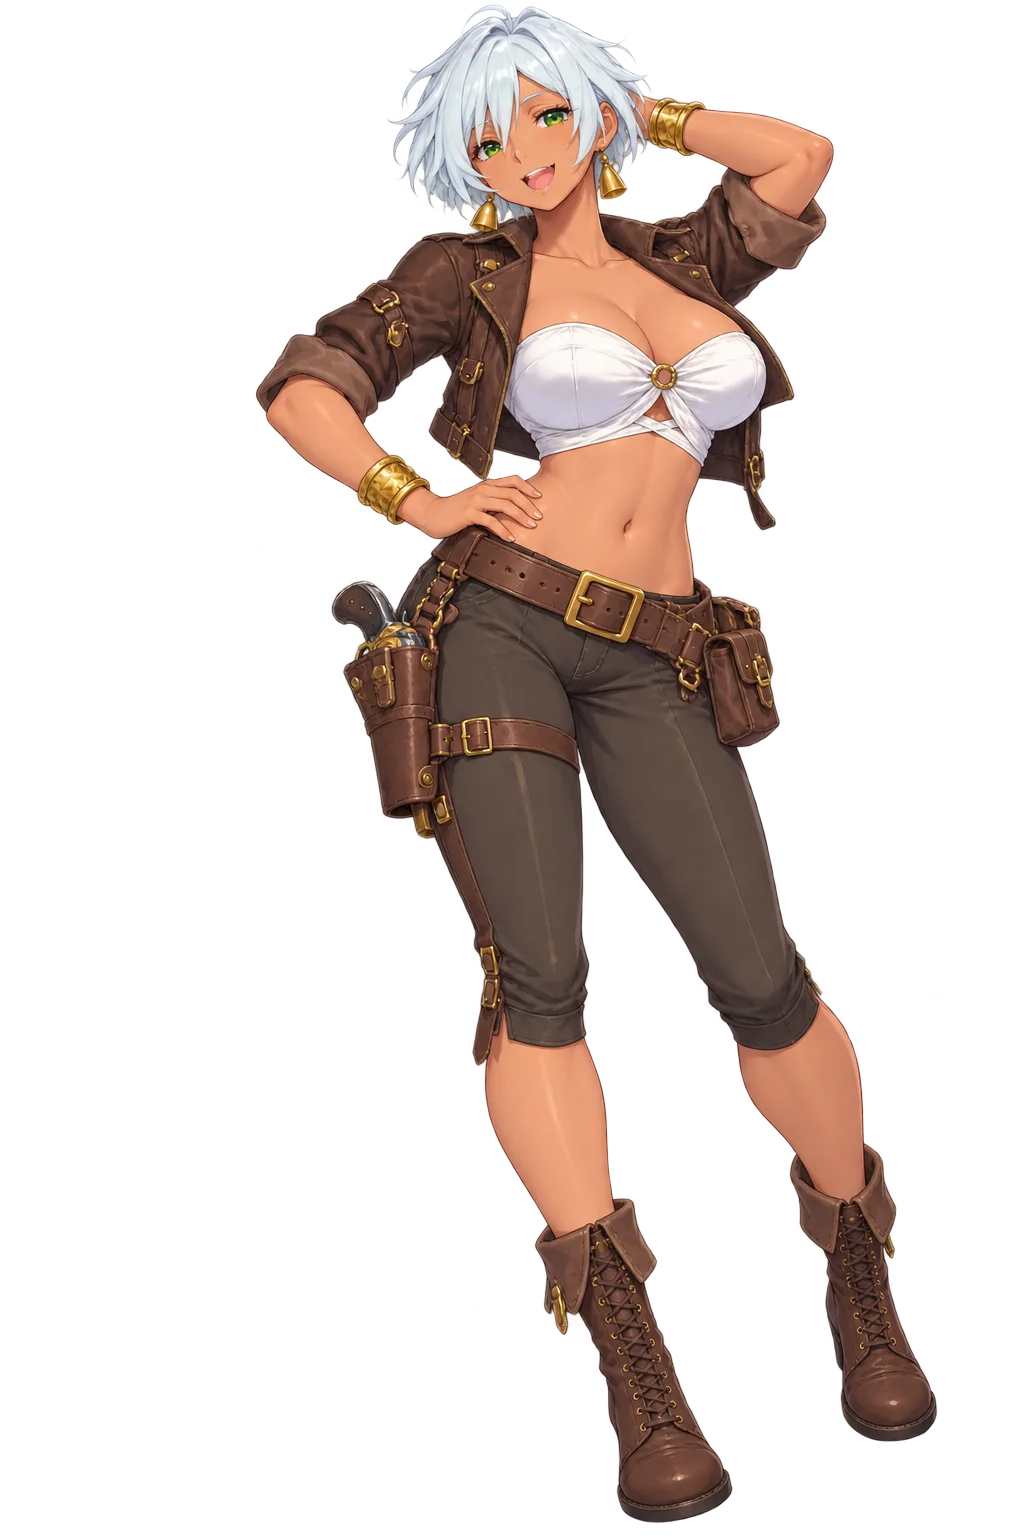
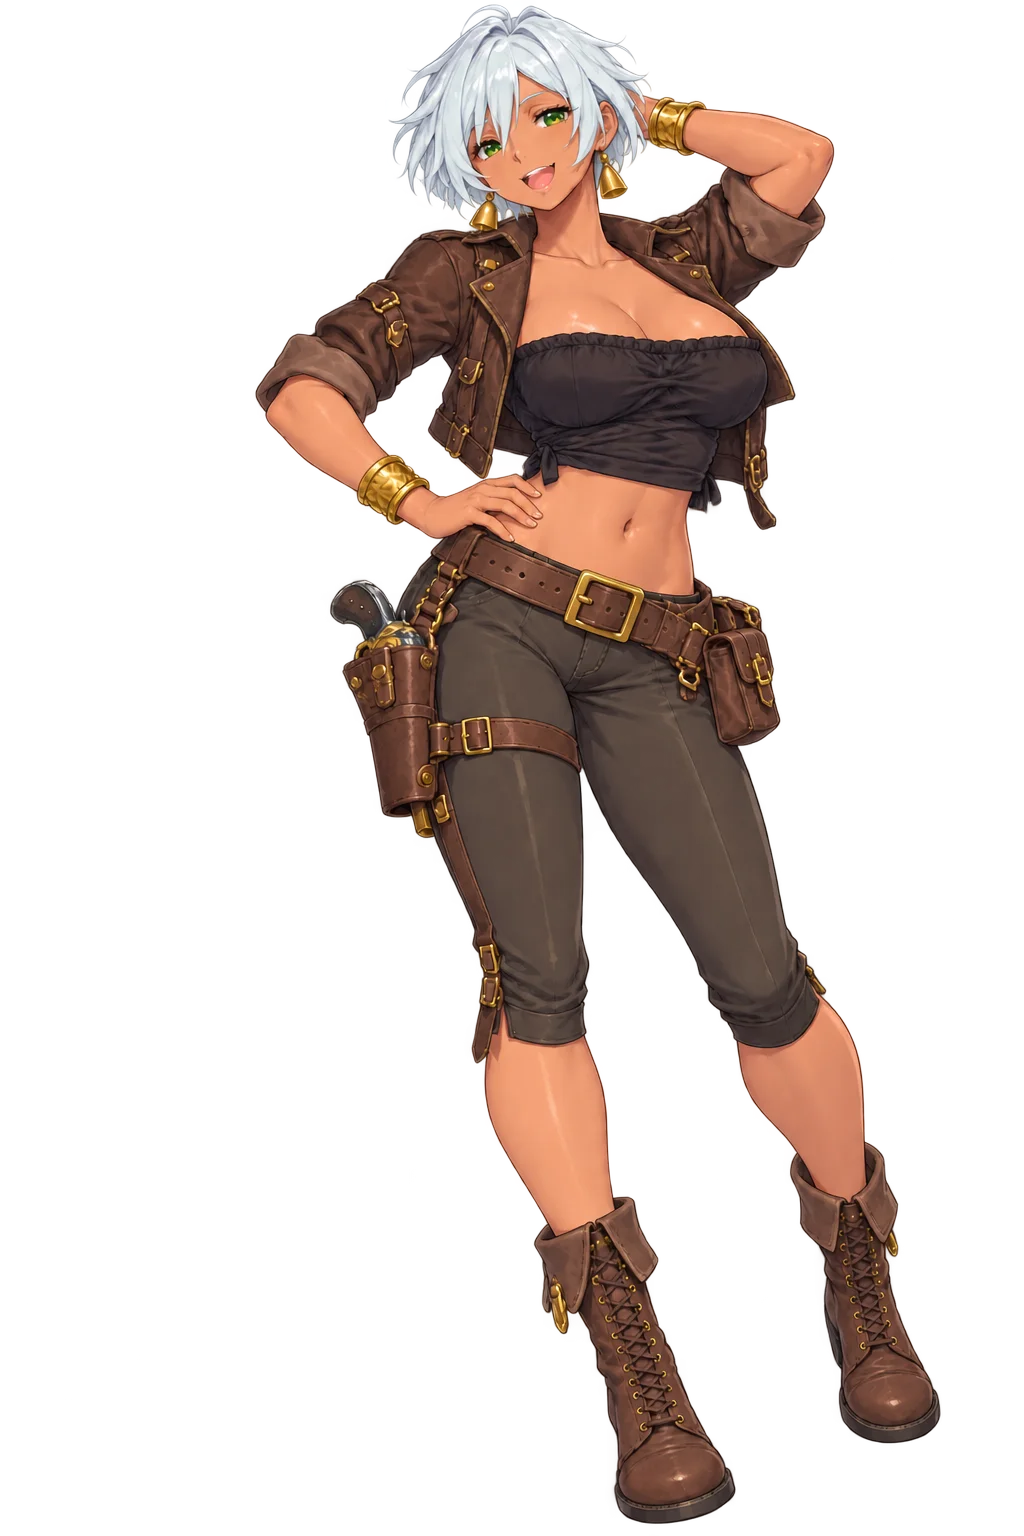
art(索拉娜): 冒險者裝改深色一字領上衣（同名覆蓋，尚無引用）

diff --git a/HANDOFF.md b/HANDOFF.md
@@ -118,7 +118,7 @@
 >    程式端：`script/speakers.js` 這 24 條 src **`?v=` 全跳**、取景值全換（`resources/si/_anya_restyle_worklist.md`「第二批取景值」）。⚠ `sleep` 是坐姿、人比舊版大，`measure_si` 提醒縱向只佔 69% ⇒ top/bot 不能當身高，`cm`／`standCm` 要看渲染調。
 >    ⇒ 第 29＋30 項接完之後，遊戲裡安雅就全部是新畫風了。
 > 31. **（09-28，Mac）索拉娜冒險者裝基底 `resources/si/sorana_ad_si_front.webp`**（Ray：「索拉娜的冒險者裝束立繪，一字領抹胸與短夾克，貼身七分褲」；命名同第 28 項 `<角色>_ad_si_<表情>`）
->    新檔、真 alpha。`measure_si.py`：`top:4 bot:1522 fx:0.533`。用在哪一段、要不要進 `speakers.js` 等 Ray（同 `renna_ad_si_front`）。
+>    新檔、真 alpha（09-28 同日改版：白抹胸→深色一字領，Ray：「配色不好看」；還沒有任何引用，所以不必跳 `?v=`）。`measure_si.py`：`top:4 bot:1523 fx:0.534`。用在哪一段、要不要進 `speakers.js` 等 Ray（同 `renna_ad_si_front`）。
 > 美術現況與換機器交接：**`resources/_HANDOFF_ART_20260925.md`**（§七＝米夏九張；§八＝廢城兩次退稿到定風格；§九＝聖索菲亞 9 張＋廢城 55 張全交、產線的坑；**§十三＝09-27 收工換機器：薇拉馮德 73 張、惡棍 6 張、索拉娜三張回版、還開著的事、三個不明刪除**；§十四＝GPT 拒畫的 alpha 交 PC 走本機；**§十五＝09-28 收工：蘿媞六張、cry 手指、市政廳室內、惡棍群體、產線教訓**）（Windows 那台收工版；09-24 那份 §六～§八是細節）。做完把這一塊刪掉或標成已接。
 
 > ✅ **`tomb_misha_met` 東泊那一邊 -1717 接上了**（Ray 定案：AB 順序長談在「滿足滿足！」收場、
